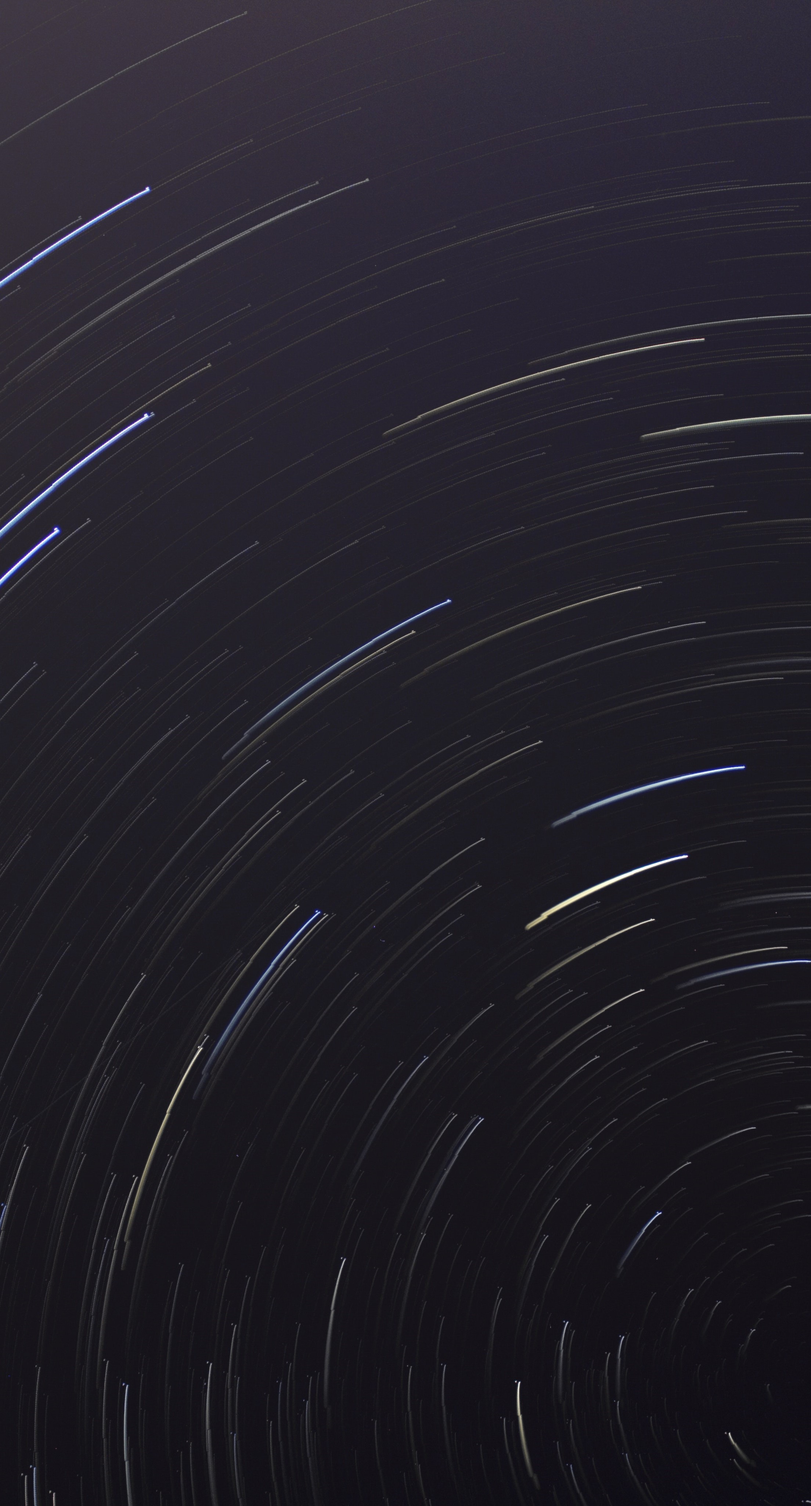
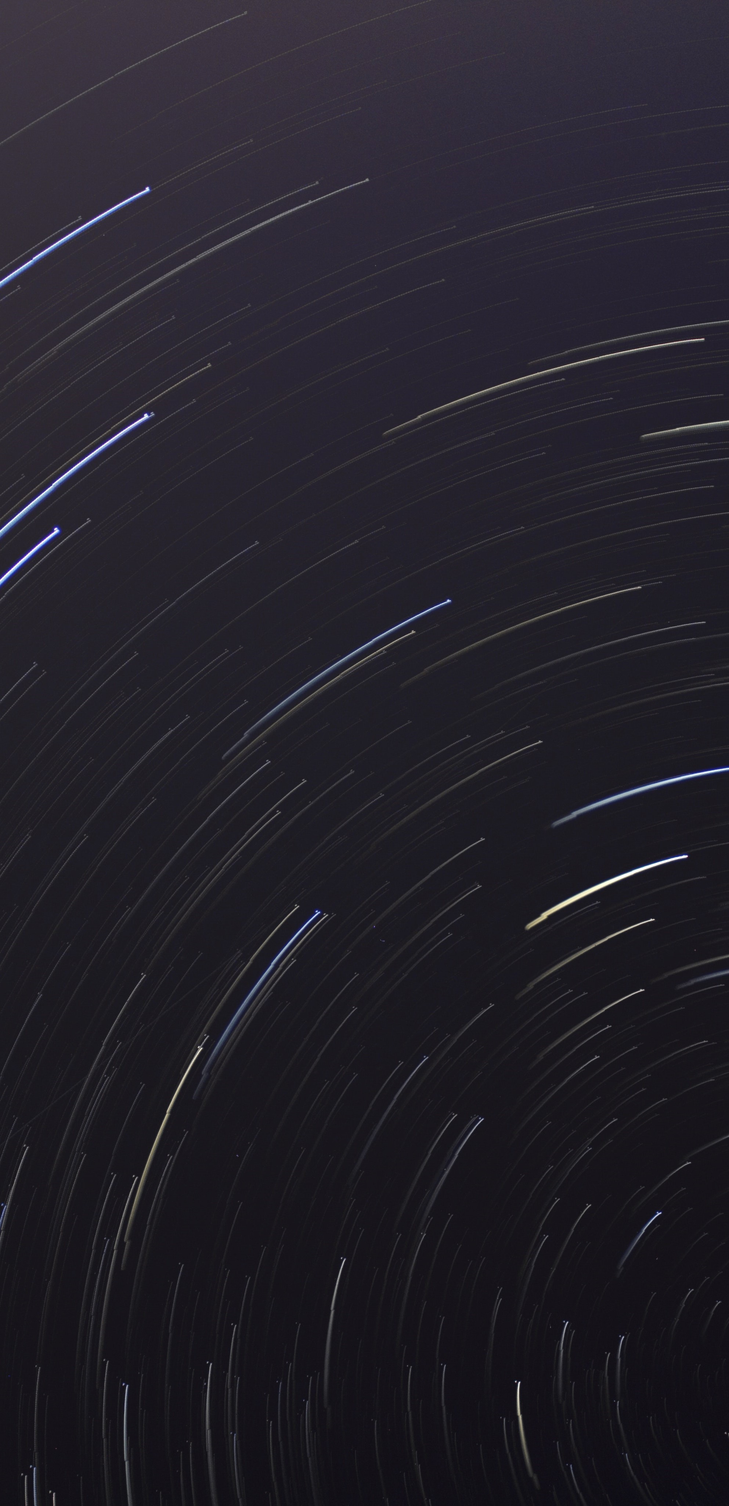
v4.1

diff --git a/index.css b/index.css
@@ -57,7 +57,7 @@ body {
 
 @media only screen and (max-width: 767px) {
     body {
-        background-image: url(./images/pexels-jakub-novacek-924824-small.jpg);
+        background-image: url(./images/pexels-jakub-novacek-924824.jpg);
         background-position: center center;
         background-repeat: no-repeat;
         background-attachment: fixed;
